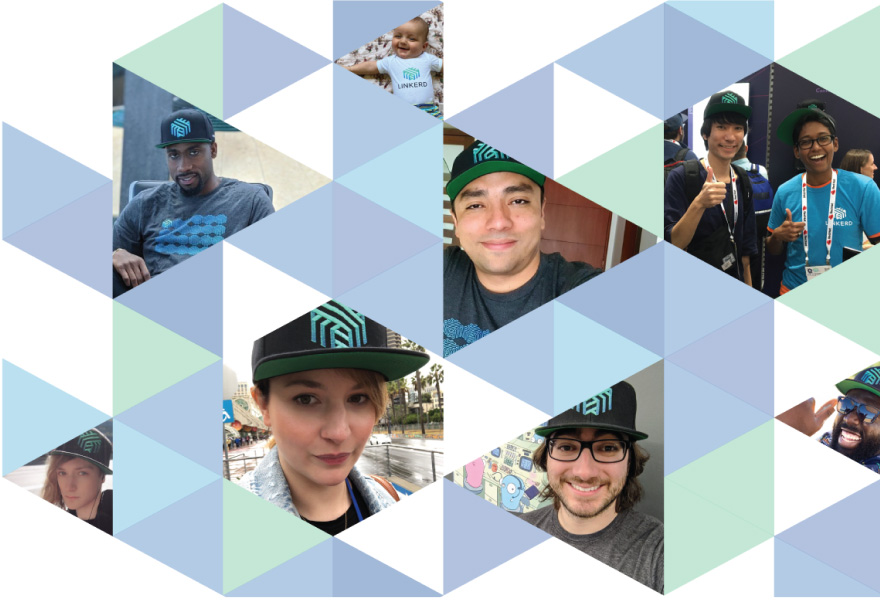
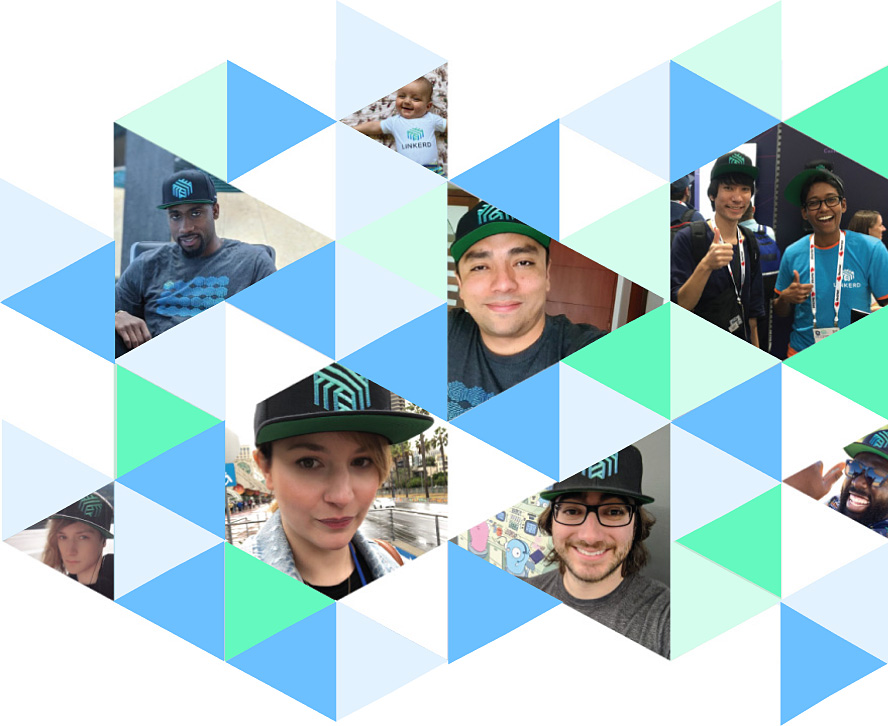
Updated anchor image

diff --git a/linkerd.io/assets/scss/styles.scss b/linkerd.io/assets/scss/styles.scss
@@ -379,8 +379,8 @@
   background-image: url(/images/anchor.jpg);
   background-repeat: no-repeat;
   background-position: top center;
-  background-size: auto 300px;
-  padding-top: 280px;
+  background-size: auto 360px;
+  padding-top: 340px;
   @include tablet-only {
     background-image: none;
   }
@@ -388,17 +388,17 @@
     padding-top: 0;
   }
   @include from($desktop) {
-    background-size: auto 250px;
+    background-size: auto 310px;
     background-position: right center;
     .notification {
-      width: 66.66%;
+      width: 70%;
     }
   }
   @include from($widescreen) {
-    background-size: auto 300px;
+    background-size: auto 360px;
   }
   @include from($fullhd) {
-    background-size: auto 350px;
+    background-size: auto 380px;
   }
 }
 
